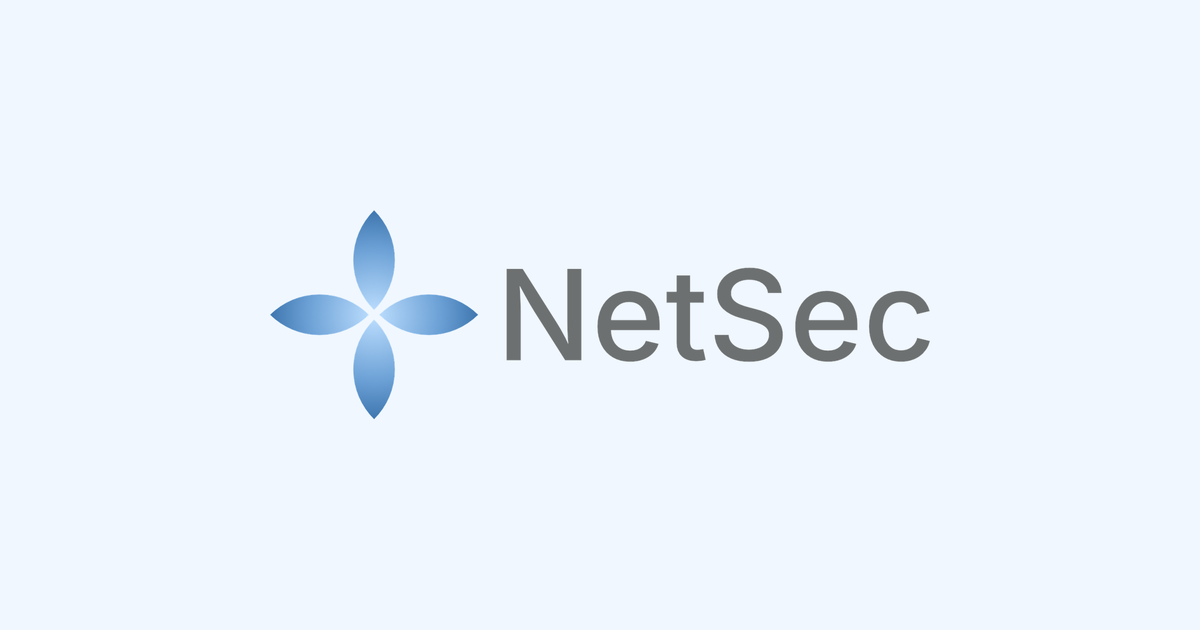
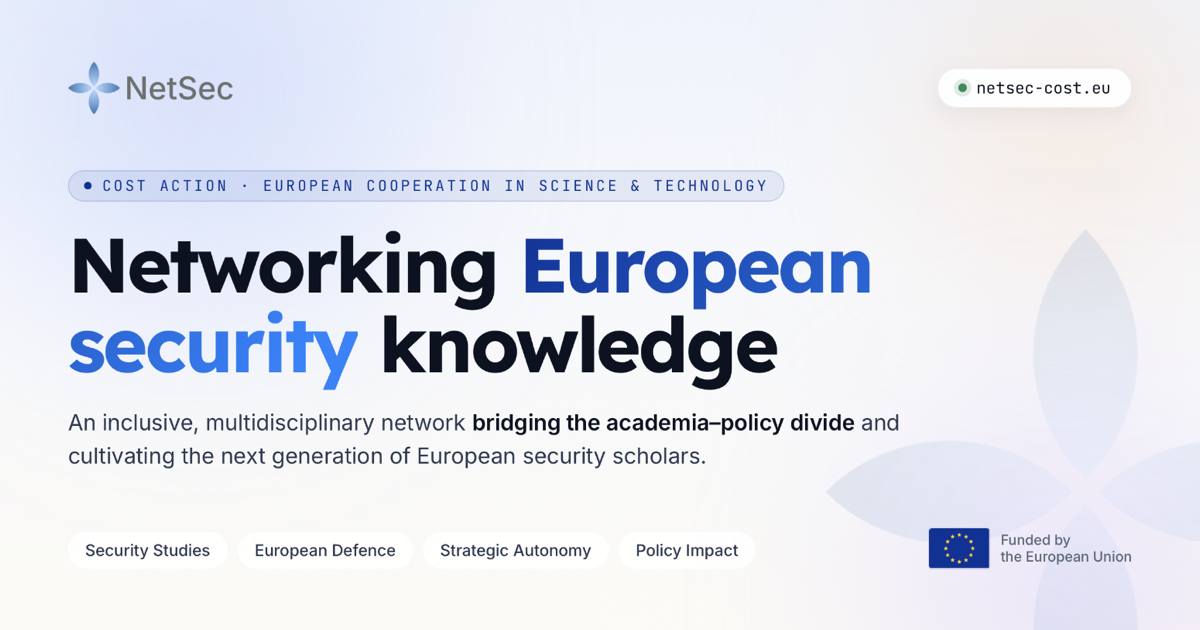
og cards: hand-designed general + directory social cards, per page (#495)
Replace the auto-generated logo-on-background OG card with two
hand-designed marketing cards, and serve the right one per page:

- assets/images/og-image.png        general card ("Networking European
                                     security knowledge"), used on every
                                     page except the directory.
- assets/images/og-image-people.png directory card ("a directory you can
                                     actually search"), used on
                                     /people.html (+ FR/DE).

inject-seo.py now picks the card by page base (people -> directory card,
else general) and sets a matching og:image:alt. build-brand-assets.py no
longer generates an OG card (build_og_card removed), so a brand rebuild
can't clobber the designed cards; docs/seo.md updated to match.

Both cards are 1200x630. FR/DE people pages re-marked fresh (the og swap
is locale-neutral). SEO check clean.

diff --git a/people.fr.html b/people.fr.html
@@ -21,16 +21,16 @@
 <meta property="og:title" content="Le Réseau · NetSec, Action COST CA24154">
 <meta property="og:description" content="Le réseau NetSec: un annuaire ouvert de chercheur·euses, décideur·ses politiques et praticien·nes travaillant dans ou aux côtés des études de sécurité européennes. Direction de l'Action, participant·es des groupes de travail et communauté élargie.">
 <meta property="og:url" content="https://netsec-cost.eu/people.fr.html">
-<meta property="og:image" content="https://netsec-cost.eu/assets/images/og-image.png">
+<meta property="og:image" content="https://netsec-cost.eu/assets/images/og-image-people.png">
 <meta property="og:image:width" content="1200">
 <meta property="og:image:height" content="630">
-<meta property="og:image:alt" content="NetSec: Networking European Security Knowledge. COST Action CA24154.">
+<meta property="og:image:alt" content="The NetSec directory: an open, searchable directory of the network's members, filterable by working group, role, and country.">
 
 <!-- Twitter Card -->
 <meta name="twitter:card" content="summary_large_image">
 <meta name="twitter:title" content="Le Réseau · NetSec, Action COST CA24154">
 <meta name="twitter:description" content="Le réseau NetSec: un annuaire ouvert de chercheur·euses, décideur·ses politiques et praticien·nes travaillant dans ou aux côtés des études de sécurité européennes. Direction de l'Action, participant·es des groupes de travail et communauté élargie.">
-<meta name="twitter:image" content="https://netsec-cost.eu/assets/images/og-image.png">
+<meta name="twitter:image" content="https://netsec-cost.eu/assets/images/og-image-people.png">
 
 <!-- General SEO + UA hints -->
 <meta name="author" content="Dr Arthur Laudrain">

diff --git a/people.de.html b/people.de.html
@@ -21,16 +21,16 @@
 <meta property="og:title" content="Das Netzwerk · NetSec, COST-Aktion CA24154">
 <meta property="og:description" content="Das NetSec-Netzwerk: ein offenes Verzeichnis von Forschenden, politischen Entscheidungsträger·innen und Praktiker·innen in der europäischen Sicherheitsforschung. Aktionsleitung, Arbeitsgruppen-Mitglieder und die weitere Community.">
 <meta property="og:url" content="https://netsec-cost.eu/people.de.html">
-<meta property="og:image" content="https://netsec-cost.eu/assets/images/og-image.png">
+<meta property="og:image" content="https://netsec-cost.eu/assets/images/og-image-people.png">
 <meta property="og:image:width" content="1200">
 <meta property="og:image:height" content="630">
-<meta property="og:image:alt" content="NetSec: Networking European Security Knowledge. COST Action CA24154.">
+<meta property="og:image:alt" content="The NetSec directory: an open, searchable directory of the network's members, filterable by working group, role, and country.">
 
 <!-- Twitter Card -->
 <meta name="twitter:card" content="summary_large_image">
 <meta name="twitter:title" content="Das Netzwerk · NetSec, COST-Aktion CA24154">
 <meta name="twitter:description" content="Das NetSec-Netzwerk: ein offenes Verzeichnis von Forschenden, politischen Entscheidungsträger·innen und Praktiker·innen in der europäischen Sicherheitsforschung. Aktionsleitung, Arbeitsgruppen-Mitglieder und die weitere Community.">
-<meta name="twitter:image" content="https://netsec-cost.eu/assets/images/og-image.png">
+<meta name="twitter:image" content="https://netsec-cost.eu/assets/images/og-image-people.png">
 
 <!-- General SEO + UA hints -->
 <meta name="author" content="Dr Arthur Laudrain">

diff --git a/people.html b/people.html
@@ -24,16 +24,16 @@
 <meta property="og:title" content="The Network · NetSec, COST Action CA24154">
 <meta property="og:description" content="The NetSec network: an open directory of researchers, policy-makers, and practitioners working in or alongside European security studies. Action leadership, Working Group participants, and the wider community.">
 <meta property="og:url" content="https://netsec-cost.eu/people.html">
-<meta property="og:image" content="https://netsec-cost.eu/assets/images/og-image.png">
+<meta property="og:image" content="https://netsec-cost.eu/assets/images/og-image-people.png">
 <meta property="og:image:width" content="1200">
 <meta property="og:image:height" content="630">
-<meta property="og:image:alt" content="NetSec: Networking European Security Knowledge. COST Action CA24154.">
+<meta property="og:image:alt" content="The NetSec directory: an open, searchable directory of the network's members, filterable by working group, role, and country.">
 
 <!-- Twitter Card -->
 <meta name="twitter:card" content="summary_large_image">
 <meta name="twitter:title" content="The Network · NetSec, COST Action CA24154">
 <meta name="twitter:description" content="The NetSec network: an open directory of researchers, policy-makers, and practitioners working in or alongside European security studies. Action leadership, Working Group participants, and the wider community.">
-<meta name="twitter:image" content="https://netsec-cost.eu/assets/images/og-image.png">
+<meta name="twitter:image" content="https://netsec-cost.eu/assets/images/og-image-people.png">
 
 <!-- General SEO + UA hints -->
 <meta name="author" content="Dr Arthur Laudrain">

diff --git a/scripts/build-brand-assets.py b/scripts/build-brand-assets.py
@@ -5,9 +5,11 @@ One-shot brand-asset processor for the designer's logo deliverable.
 Takes the designer's raw PNGs (mark only, primary lockup, white-on-
 dark, monochrome) and produces the deployment set the site needs:
 cleaned lockups (cropped to content bbox, no transparent padding),
-a favicon family at standard sizes, the manifest icons, and an OG
-social card composed from the primary lockup over a brand-coloured
-background.
+a favicon family at standard sizes, and the manifest icons.
+
+The OG / social cards are hand-designed marketing graphics, kept as
+design assets (assets/images/og-image.png and og-image-people.png)
+rather than generated here, so this script never overwrites them.
 
 The designer sent PNG only. SVG masters would be better for favicon
 and high-DPI rendering; tracked as a follow-up. Until then,
@@ -72,13 +74,6 @@ FAVICON_SIZES = {
     "android-chrome-512.png": 512,    # PWA manifest, splash screens
 }
 
-# OG card: 1200×630 is the canonical Twitter/OG size; 2× for retina.
-# Card design: primary lockup centred on a soft brand-tinted canvas
-# (very light blue, the lightest swatch from the palette). Matches
-# the existing og-image.png 2400×1260 dimensions so HTML references
-# don't need to change.
-OG_SIZE = (2400, 1260)
-OG_BACKGROUND = (240, 247, 255, 255)   # near-white with a hint of brand blue
 
 
 # ──────────────────────────── helpers ────────────────────────────
@@ -139,36 +134,13 @@ def build_favicons(source: Path) -> None:
     print(f"  wrote {ico_path.relative_to(ROOT)} ({ico_path.stat().st_size:,} bytes, sizes={ico_sizes})")
 
 
-def build_og_card(source: Path) -> None:
-    """Compose a 2400×1260 OG card: primary lockup centred over a
-    light-brand-tinted background. The size matches the existing
-    og-image.png so the HTML meta tags don't need updating."""
-    print("\n── 4. OG social card ──")
-    lockup = Image.open(source / "primary.png").convert("RGBA")
-    lockup = crop_to_content(lockup)
-
-    # Scale the lockup to ~55% of the canvas width. Leaves clearance
-    # on all sides (brand guidelines: 1 petal width = ~10% of mark
-    # width, so 22% padding either side is well above the minimum).
-    target_w = int(OG_SIZE[0] * 0.55)
-    scale = target_w / lockup.size[0]
-    target_h = int(lockup.size[1] * scale)
-    lockup_scaled = lockup.resize((target_w, target_h), Image.Resampling.LANCZOS)
-
-    card = Image.new("RGBA", OG_SIZE, OG_BACKGROUND)
-    x = (OG_SIZE[0] - target_w) // 2
-    y = (OG_SIZE[1] - target_h) // 2
-    card.paste(lockup_scaled, (x, y), lockup_scaled)
-
-    # OG image goes at /assets/images/og-image.png — same path as
-    # before so no HTML change. PIL saves PNG-32 by default; RGB is
-    # smaller and lossless enough for this content. Flatten alpha
-    # against the background.
-    card_rgb = Image.new("RGB", OG_SIZE, OG_BACKGROUND[:3])
-    card_rgb.paste(card, mask=card)
-    out_path = ROOT / "assets" / "images" / "og-image.png"
-    card_rgb.save(out_path, "PNG", optimize=True)
-    print(f"  wrote {out_path.relative_to(ROOT)} ({out_path.stat().st_size:,} bytes, 2400×1260)")
+# build_og_card() was removed. The OG / social cards are now
+# hand-designed marketing graphics, not auto-generated from the lockup:
+# assets/images/og-image.png (the general card, used on every page) and
+# assets/images/og-image-people.png (the directory card, used on
+# /people.html). They are maintained as design assets, so this script no
+# longer touches them and a brand rebuild cannot clobber them.
+# scripts/inject-seo.py selects which card each page advertises.
 
 
 def main() -> int:
@@ -190,7 +162,6 @@ def main() -> int:
 
     process_lockups(args.source)
     build_favicons(args.source)
-    build_og_card(args.source)
 
     print("\nDone.")
     return 0

diff --git a/scripts/inject-seo.py b/scripts/inject-seo.py
@@ -46,6 +46,11 @@ ROOT = Path(__file__).resolve().parent.parent
 SITE = "https://netsec-cost.eu"
 SITE_NAME = "NetSec, COST Action CA24154"
 OG_IMAGE = f"{SITE}/assets/images/og-image.png"
+OG_IMAGE_ALT = "NetSec: Networking European Security Knowledge. COST Action CA24154."
+# The directory (/people.html) advertises a dedicated social card showing
+# the searchable directory; every other page uses the general card above.
+OG_IMAGE_PEOPLE = f"{SITE}/assets/images/og-image-people.png"
+OG_IMAGE_PEOPLE_ALT = "The NetSec directory: an open, searchable directory of the network's members, filterable by working group, role, and country."
 AUTHOR = "Dr Arthur Laudrain"
 THEME_COLOR = "#003399"
 
@@ -126,6 +131,8 @@ def build_seo_block(base: str, lang: str, title: str, desc: str) -> str:
     og_type = OG_TYPES.get(base, "website")
     og_locale = OG_LOCALES.get(lang, "en_GB")
     alt_locales = [OG_LOCALES[k] for k in ("en", "fr", "de") if k != lang]
+    og_image = OG_IMAGE_PEOPLE if base == "people" else OG_IMAGE
+    og_image_alt = OG_IMAGE_PEOPLE_ALT if base == "people" else OG_IMAGE_ALT
 
     lines = [
         SENTINEL_BEGIN,
@@ -142,16 +149,16 @@ def build_seo_block(base: str, lang: str, title: str, desc: str) -> str:
         f'<meta property="og:title" content="{_attr_escape(title)}">',
         f'<meta property="og:description" content="{_attr_escape(desc)}">',
         f'<meta property="og:url" content="{canonical}">',
-        f'<meta property="og:image" content="{OG_IMAGE}">',
+        f'<meta property="og:image" content="{og_image}">',
         '<meta property="og:image:width" content="1200">',
         '<meta property="og:image:height" content="630">',
-        '<meta property="og:image:alt" content="NetSec: Networking European Security Knowledge. COST Action CA24154.">',
+        f'<meta property="og:image:alt" content="{_attr_escape(og_image_alt)}">',
         '',
         '<!-- Twitter Card -->',
         '<meta name="twitter:card" content="summary_large_image">',
         f'<meta name="twitter:title" content="{_attr_escape(title)}">',
         f'<meta name="twitter:description" content="{_attr_escape(desc)}">',
-        f'<meta name="twitter:image" content="{OG_IMAGE}">',
+        f'<meta name="twitter:image" content="{og_image}">',
         '',
         '<!-- General SEO + UA hints -->',
         f'<meta name="author" content="{AUTHOR}">',

diff --git a/CHANGELOG.md b/CHANGELOG.md
@@ -101,6 +101,7 @@ maintainer-facing audience.
 
 #### Added
 
+- New hand-designed social cards (the image that appears when a page is shared on LinkedIn, Bluesky, or anywhere reading Open Graph tags). The directory (`/people.html`, all locales) gets its own card showing the searchable directory; every other page uses a refreshed general card. `inject-seo.py` picks the right one per page, and the brand-asset script no longer regenerates the old auto-composed card over the top.
 - The site footer now links the Action's two social channels, in every page and locale: LinkedIn (`costnetsec`) and Bluesky (`netsec-cost.eu`), alongside the existing repository link. They sit as small circular icon buttons in the footer's social row, the same place the placeholder links lived, so they stay out of the way of page content. The unused X / Twitter placeholder is gone. Both channels are also declared as the organisation's `sameAs` profiles in the home-page structured data, which helps search engines connect the site to the accounts.
 - The directory (`/people.html`) now carries an Early Access Preview banner at the top, in all three locales, inviting visitors to contribute. The "adding your bio" link jumps straight to the join card at the foot of the page. The banner uses the same accent-gradient language as the What's New banner but sits in the page rather than as a dismissible top bar.
 - The About-page deliverables timeline now shows which deliverables have shipped, not only what is planned, in all three locales. A shipped milestone gains a check mark, and one delivered ahead of plan shows in green with a faded marker left at its originally planned month and a dotted lead-line between the two. The first to land is the NetSec directory (D1). Each status carries a screen-reader description, so the meaning never rests on colour alone.

diff --git a/docs/seo.md b/docs/seo.md
@@ -18,7 +18,7 @@ a multilingual static site. This doc is the map.
 | **Open Graph** | `og:title`, `og:description`, `og:url`, `og:type`, `og:image`, `og:site_name`, `og:locale`, `og:locale:alternate` | One block per page, locale-aware. |
 | **Twitter Card** | `summary_large_image` | Title / description / image mirror the OG values. |
 | **JSON-LD structured data** | `<script type="application/ld+json">` per page | `Organization` schema on every page; `WebSite` schema also on `/`; per-page `WebPage` node. |
-| **Social-share image** | `assets/images/og-image.png` | 1200 × 630, branded card (gradient + NS mark + title). Used for OG / Twitter / WhatsApp / LinkedIn previews. |
+| **Social-share image** | `assets/images/og-image.png` (general) · `assets/images/og-image-people.png` (directory) | 1200 × 630 hand-designed cards. `inject-seo.py` serves the directory card on `/people.html` (+ FR/DE) and the general card everywhere else. Used for OG / Twitter / WhatsApp / LinkedIn previews. The cards are maintained as design assets, not generated by `build-brand-assets.py`. |
 | **Theme colour** | `<meta name="theme-color" content="#003399">` | Mobile browser chrome adopts the EU blue. |
 | **404 page** | `404.html` at site root | GitHub Pages serves this on any unknown URL. Auto-detects browser language (or stored `netsec-lang` preference) and points the user back at the right localised home. Carries `noindex`. |
 
